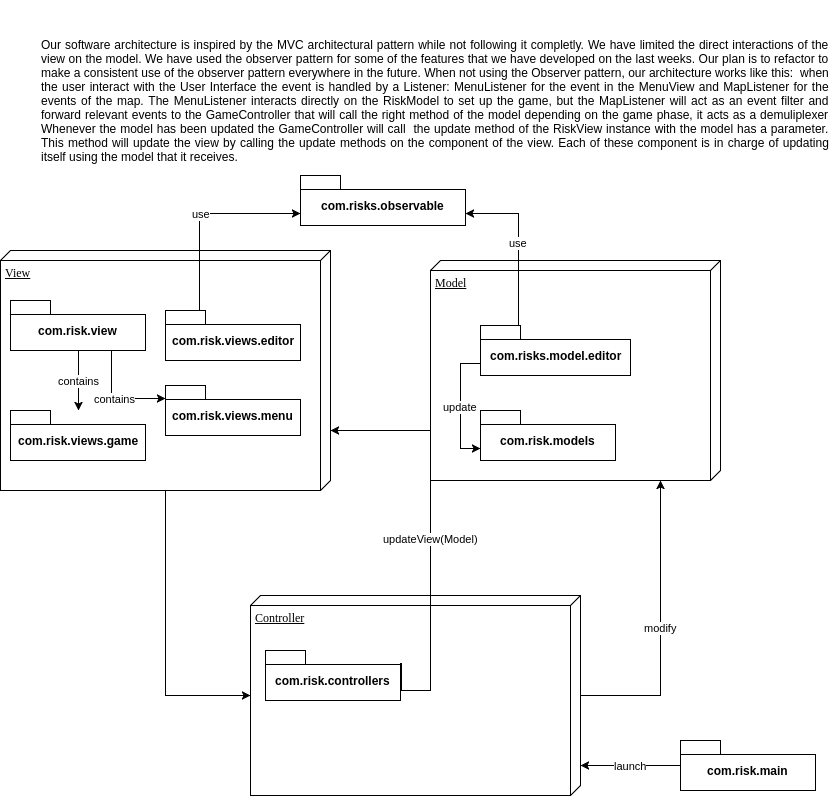
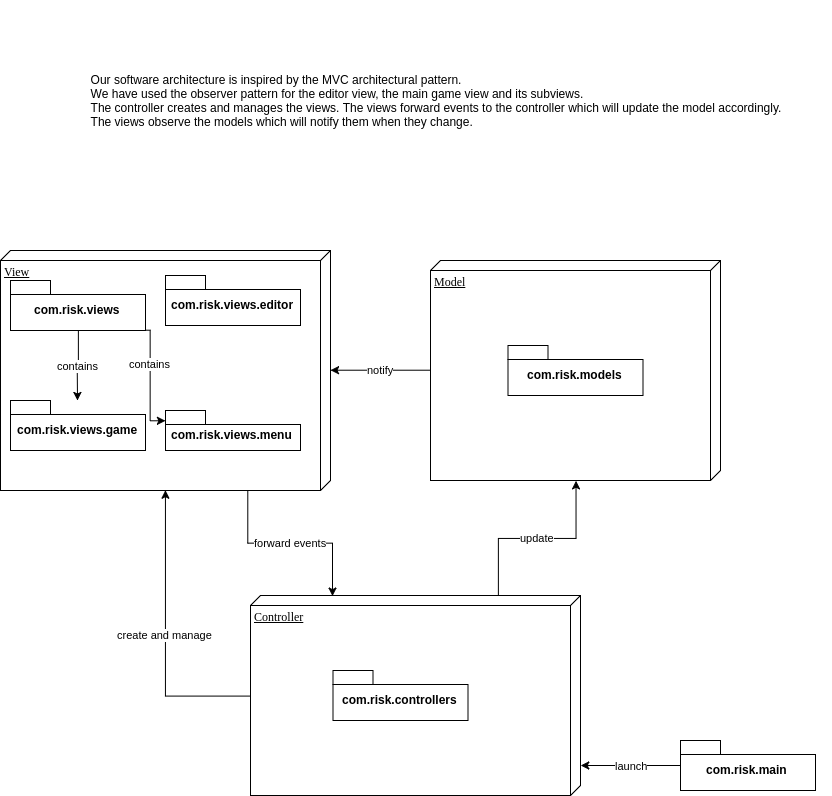
Update the architectural diagram

diff --git a/riskGame/src/com/risk/controllers/GameController.java b/riskGame/src/com/risk/controllers/GameController.java
@@ -10,8 +10,8 @@ import com.risk.models.GamePhase;
 import com.risk.models.PlayerModel;
 import com.risk.models.RiskModel;
 import com.risk.models.TerritoryModel;
-import com.risk.views.attack.AttackView;
-import com.risk.views.reinforcement.CardExchangeView;
+import com.risk.views.game.AttackView;
+import com.risk.views.game.CardExchangeView;
 import java.awt.Dimension;
 import java.awt.Toolkit;
 

diff --git a/riskGame/src/com/risk/views/game/PhaseAuxiliar.java b/riskGame/src/com/risk/views/game/PhaseAuxiliar.java
@@ -8,8 +8,6 @@ package com.risk.views.game;
 import com.risk.controllers.GameController;
 import com.risk.models.AttackMove;
 import com.risk.models.RiskModel;
-import com.risk.views.attack.ArmiesLeft;
-import com.risk.views.attack.AttackView;
 import java.util.Observable;
 import java.util.Observer;
 import javax.swing.BoxLayout;

diff --git a/riskGame/src/com/risk/views/game/CardExchangeView.java b/riskGame/src/com/risk/views/game/CardExchangeView.java
@@ -3,7 +3,7 @@
  * To change this template file, choose Tools | Templates
  * and open the template in the editor.
  */
-package com.risk.views.reinforcement;
+package com.risk.views.game;
 
 import com.risk.controllers.CardExchangeListener;
 import com.risk.models.HandModel;

diff --git a/riskGame/src/com/risk/views/game/AttackView.java b/riskGame/src/com/risk/views/game/AttackView.java
@@ -3,7 +3,7 @@
  * To change this template file, choose Tools | Templates
  * and open the template in the editor.
  */
-package com.risk.views.attack;
+package com.risk.views.game;
 
 import com.risk.controllers.GameController;
 import com.risk.models.AttackMove;

diff --git a/riskGame/src/com/risk/views/game/ArmiesLeft.java b/riskGame/src/com/risk/views/game/ArmiesLeft.java
@@ -3,7 +3,7 @@
  * To change this template file, choose Tools | Templates
  * and open the template in the editor.
  */
-package com.risk.views.attack;
+package com.risk.views.game;
 
 import com.risk.controllers.GameController;
 import java.awt.Dimension;

diff --git a/riskGame/src/com/risk/models/RiskModel.java b/riskGame/src/com/risk/models/RiskModel.java
@@ -5,7 +5,7 @@
  */
 package com.risk.models;
 
-import com.risk.views.attack.AttackView;
+import com.risk.views.game.AttackView;
 import java.awt.Color;
 import java.util.ArrayList;
 import java.util.Collections;
